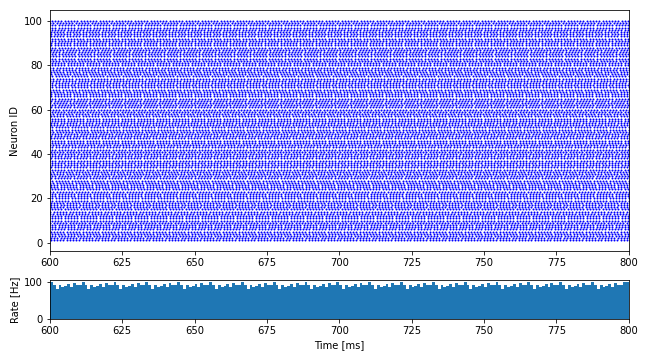
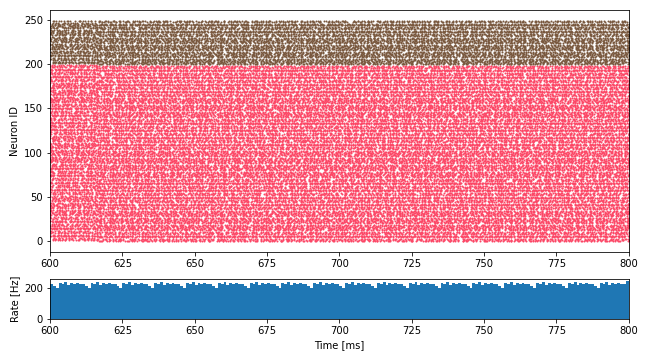
rewrote raster and rate functions

diff --git a/simulation/new_run.py b/simulation/new_run.py
@@ -19,7 +19,7 @@ nest.SetKernelStatus({'local_num_threads': 4})  # Adapt if necessary
 nest.print_time = True
 #nest.overwrite_files = True
 
-network = Network()
+network = Network(50000)
 neuron_params_ex = {
     "V_m":            -70.,     ## Membrane potential in mV
     "V_th":           -50.,     ## instantaneous threshold in mV
@@ -50,6 +50,9 @@ syn_spec_in_ex={'synapse_model': 'stdp_synapse',
           'delay': 1., 
           'receptor_type': 2,
           'alpha': 0.5}
+
+## "glif_psc" doesn't seem to work with receptor type 3 and 4.
+## Maybe synapse type is incorrect?
 syn_spec_ex_in={'synapse_model': 'stdp_synapse',
           'weight': 1.,
           'delay': 1., 
@@ -65,7 +68,8 @@ syn_spec_in_in={'synapse_model': 'stdp_synapse',
 network.addpop('glif_psc', 800,neuron_params_ex, record_from_pop=True, nrec=200)
 network.addpop('glif_psc', 200,neuron_params_ex, record_from_pop=True, nrec=50)
 
-conn_matrix = np.array([[0.2, 0.2],[0.2,0.2]])
+conn_matrix = np.array([[0.2, 0.2],
+                        [0.2,0.2]])
 syn_matrix = np.array([[syn_spec_ex_ex, syn_spec_in_ex],
                       [syn_spec_ex_in, syn_spec_in_in]])
 
@@ -75,98 +79,6 @@ network.connect_all(network.get_pops(), conn_matrix, syn_matrix)
 network.create()
 network.simulate(1000)
 test = network.get_data()
-
-
-def plot_weight_matrices(E_neurons, I_neurons):
-
-    W_EE = np.zeros([len(E_neurons), len(E_neurons)])
-    W_EI = np.zeros([len(I_neurons), len(E_neurons)])
-    W_IE = np.zeros([len(E_neurons), len(I_neurons)])
-    W_II = np.zeros([len(I_neurons), len(I_neurons)])
-
-    a_EE = nest.GetConnections(E_neurons, E_neurons)
-
-    # We extract the value of the connection weight for all the connections between these populations
-    c_EE = a_EE.weight
-
-    # Repeat the two previous steps for all other connection types
-    a_EI = nest.GetConnections(I_neurons, E_neurons)
-    c_EI = a_EI.weight
-    a_IE = nest.GetConnections(E_neurons, I_neurons)
-    c_IE = a_IE.weight
-    a_II = nest.GetConnections(I_neurons, I_neurons)
-    c_II = a_II.weight
-
-    # We now iterate through the range of all connections of each type.
-    # To populate the corresponding weight matrix, we begin by identifying
-    # the source-node_id (by using .source) and the target-node_id.
-    # For each node_id, we subtract the minimum node_id within the corresponding
-    # population, to assure the matrix indices range from 0 to the size of
-    # the population.
-
-    # After determining the matrix indices [i, j], for each connection
-    # object, the corresponding weight is added to the entry W[i,j].
-    # The procedure is then repeated for all the different connection types.
-    a_EE_src = a_EE.source
-    a_EE_trg = a_EE.target
-    a_EI_src = a_EI.source
-    a_EI_trg = a_EI.target
-    a_IE_src = a_IE.source
-    a_IE_trg = a_IE.target
-    a_II_src = a_II.source
-    a_II_trg = a_II.target
-
-    min_E = min(E_neurons.tolist())
-    min_I = min(I_neurons.tolist())
-
-    for idx in range(len(a_EE)):
-        W_EE[a_EE_src[idx] - min_E, a_EE_trg[idx] - min_E] += c_EE[idx]
-    for idx in range(len(a_EI)):
-        W_EI[a_EI_src[idx] - min_I, a_EI_trg[idx] - min_E] += c_EI[idx]
-    for idx in range(len(a_IE)):
-        W_IE[a_IE_src[idx] - min_E, a_IE_trg[idx] - min_I] += c_IE[idx]
-    for idx in range(len(a_II)):
-        W_II[a_II_src[idx] - min_I, a_II_trg[idx] - min_I] += c_II[idx]
-
-    fig = plt.figure()
-    fig.suptitle('Weight matrices', fontsize=14)
-    gs = gridspec.GridSpec(4, 4)
-    ax1 = plt.subplot(gs[:-1, :-1])
-    ax2 = plt.subplot(gs[:-1, -1])
-    ax3 = plt.subplot(gs[-1, :-1])
-    ax4 = plt.subplot(gs[-1, -1])
-
-    plt1 = ax1.imshow(W_EE, cmap='jet')
-
-    divider = make_axes_locatable(ax1)
-    cax = divider.append_axes("right", "5%", pad="3%")
-    plt.colorbar(plt1, cax=cax)
-
-    ax1.set_title('$W_{EE}$')
-    plt.tight_layout()
-
-    plt2 = ax2.imshow(W_IE)
-    plt2.set_cmap('jet')
-    divider = make_axes_locatable(ax2)
-    cax = divider.append_axes("right", "5%", pad="3%")
-    plt.colorbar(plt2, cax=cax)
-    ax2.set_title('$W_{EI}$')
-    plt.tight_layout()
-
-    plt3 = ax3.imshow(W_EI)
-    plt3.set_cmap('jet')
-    divider = make_axes_locatable(ax3)
-    cax = divider.append_axes("right", "5%", pad="3%")
-    plt.colorbar(plt3, cax=cax)
-    ax3.set_title('$W_{IE}$')
-    plt.tight_layout()
-
-    plt4 = ax4.imshow(W_II)
-    plt4.set_cmap('jet')
-    divider = make_axes_locatable(ax4)
-    cax = divider.append_axes("right", "5%", pad="3%")
-    plt.colorbar(plt4, cax=cax)
-    ax4.set_title('$W_{II}$')
-    plt.tight_layout()
-
+raster(test, 600, 800)
+rate(test,600,800)
 #plot_weight_matrices(network.get_pops()[0], network.get_pops()[1])

diff --git a/simulation/new_functions.py b/simulation/new_functions.py
@@ -4,14 +4,16 @@ import matplotlib.gridspec as gridspec
 import numpy as np
 import nest
 import itertools
+import random
 
 ## 
 
 # Create classes
 class Network():
-    def __init__(self):
+    def __init__(self, ext_rate):
         self.__populations = []
         self.__devices = []
+        self.ext_rate = ext_rate
         self.spike_recorder = nest.Create("spike_recorder")
 
     def addpop(self, neuron_type, num_neurons, neuron_params, record_from_pop=False, nrec=0.):
@@ -54,7 +56,7 @@ class Network():
 
     def create(self):
         self.stimulus = nest.Create("poisson_generator")
-        self.stimulus.rate = 50000
+        self.stimulus.rate = self.ext_rate
         nest.Connect(self.stimulus, self.__populations[0],
                      #conn_spec={'rule': 'fixed_indegree', 'indegree': self.c_ex},
                      syn_spec={'receptor_type': 1,
@@ -107,14 +109,19 @@ class Network():
         return self.data
 
 # Helper functions
-def raster(spikes_ex, spikes_in, rec_start, rec_stop, figsize=(9, 5)):
+def raster(spikes, rec_start, rec_stop, figsize=(9, 5)):
 
-    spikes_ex_total = list(itertools.chain(*spikes_ex))
-    spikes_in_total = list(itertools.chain(*spikes_in))
-    spikes_total = spikes_ex_total + spikes_in_total
-
-    n_rec_ex = len(spikes_ex)
-    n_rec_in = len(spikes_in)
+    #spikes_total = list(itertools.chain(*spikes))
+    spikes_total = [element for sublist in spikes for element in sublist]
+    nrec_lst = []
+    
+    for i in spikes:
+        nrec_lst.append(len(i))
+        
+    
+    
+    #n_rec_ex = len(spikes_ex)
+    #n_rec_in = len(spikes_in)
 
     fig = plt.figure(figsize=figsize)
     gs = fig.add_gridspec(5, 1)
@@ -129,23 +136,25 @@ def raster(spikes_ex, spikes_in, rec_start, rec_stop, figsize=(9, 5)):
 
     ax2.set_ylabel('Rate [Hz]')
     ax2.set_xlabel('Time [ms]')
+    
+    color_list = []
+    for i in range(len(nrec_lst)):
+      r = random.randint(0,255)/255
+      g = random.randint(0,255)/255
+      b = random.randint(0,255)/255
+      color_list.append([r,g,b])
+    
+    for j in range(len(nrec_lst)):
+        for i in range(nrec_lst[j]):
+            ax1.plot(spikes_total[i],
+                (i + sum(nrec_lst[:j]))*np.ones(len(spikes_total[i])),
+                linestyle='',
+                marker='o',
+                color=color_list[j],
+                markersize=1)
 
-    for i in range(n_rec_in):
-        ax1.plot(spikes_in[i],
-                 i*np.ones(len(spikes_in[i])),
-                 linestyle='',
-                 marker='o',
-                 color='r',
-                 markersize=1)
-    for i in range(n_rec_ex):
-        ax1.plot(spikes_ex[i],
-                 (i + n_rec_in)*np.ones(len(spikes_ex[i])),
-                 linestyle='',
-                 marker='o',
-                 color='b',
-                 markersize=1)
-
-    ax2 = ax2.hist(spikes_ex_total,
+    spikes_total = list(itertools.chain(*[element for sublist in spikes for element in sublist]))
+    ax2 = ax2.hist(spikes_total,
                    range=(rec_start,rec_stop),
                    bins=int(rec_stop - rec_start))
 
@@ -153,16 +162,15 @@ def raster(spikes_ex, spikes_in, rec_start, rec_stop, figsize=(9, 5)):
 
     plt.savefig('raster.png')
 
-def rate(spikes_ex, spikes_in, rec_start, rec_stop):
-    spikes_ex_total = list(itertools.chain(*spikes_ex))
-    spikes_in_total = list(itertools.chain(*spikes_in))
-    spikes_total = spikes_ex_total + spikes_in_total
+def rate(spikes, rec_start, rec_stop):
+    spikes_total = list(itertools.chain(*[element for sublist in spikes for element in sublist]))
 
-    n_rec_ex = len(spikes_ex)
-    n_rec_in = len(spikes_in)
+    
+    nrec_total = 0
+    for i in spikes:
+        nrec_total += len(i)
 
     time_diff = (rec_stop - rec_start)/1000.
     average_firing_rate = (len(spikes_total)
-                           /(n_rec_ex + n_rec_in))
+                           /(nrec_total))
     print(f'Average firing rate: {average_firing_rate} Hz')
-
